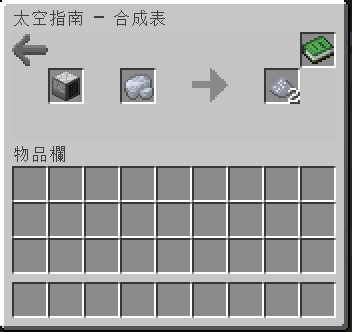
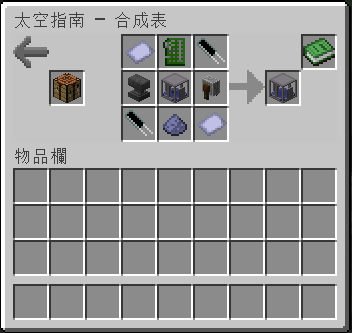
GitBook: [#154] No subject

Changed region(s): [[0.0, 0.0, 1.0, 1.0]]

diff --git a/item/Enchanter.md b/item/Enchanter.md
@@ -1,14 +1,14 @@
-# ⚡ 附魔師
+# ⚡ 附魔機
 
 ![](<../.gitbook/assets/image (226).png>)
 
-附魔師是一種[通電機器](../space/energy-systems.md)，以消耗能量的方式將附魔書強行附加到物品上。
+附魔機是一種[通電機器](../space/energy-systems.md)，以消耗能量的方式將附魔書強行附加到物品上。
 
 ## 獲得
 
 ### 製作
 
-附魔師可以使用以下物品製作：
+附魔機可以使用以下物品製作：
 
 ![](<../.gitbook/assets/image (225).png>)
 
@@ -23,10 +23,10 @@
 
 ### 啟動
 
-附魔師可以通過[導管](Conduit.md)獲得能量。
+附魔機可以通過[導管](Conduit.md)獲得能量。
 
 消耗 500 單位的能量，右邊的附魔書將強行附加到左邊的物品上。
 
 ![](https://camo.githubusercontent.com/a9c0f0b4eefc7a2ab99a8e58c49c18e4ff5f954dc88877efc031265ab38b3569/68747470733a2f2f692e696d6775722e636f6d2f4870423945746d2e706e67)
 
-一個附魔師可以儲存多達 5000 單位的能量。
+一個附魔機可以儲存多達 5000 單位的能量。

diff --git a/item/Disenchanter.md b/item/Disenchanter.md
@@ -1,0 +1,33 @@
+# ⚡ 祛魔機
+
+![](<../.gitbook/assets/image (238).png>)
+
+祛魔機是一種[通電機器](../space/energy-systems.md)，可以用來去除物品上的附魔並將它們放在書上。
+
+## 獲得
+
+### 製作
+
+祛魔機可以使用以下物品製作：
+
+![](<../.gitbook/assets/image (246).png>)
+
+* 1 [電路板](Circuit-Board.md)
+* 1 砂輪
+* 1鐵砧
+* 1[附魔機](Enchanter.md)
+* 1[鉛粉](Lead-Dust.md)
+* 2[電容](Capacitor.md)
+* 2[塑料](Plastic.md)
+
+## 用法
+
+### 啟動
+
+祛魔機可以透過[導管](Conduit.md)獲得能量。
+
+消耗 500 能量，左邊附魔的物品上的附魔將被分解至右邊的書上。
+
+![](https://camo.githubusercontent.com/61da52f889256a7bcab4f2e588abb223828abe266e90bf7766db837b6a46f458/68747470733a2f2f692e696d6775722e636f6d2f436c77474e724d2e706e67)
+
+祛魔機最多可以儲存 5000 單位的能量。

diff --git a/SUMMARY.md b/SUMMARY.md
@@ -36,7 +36,8 @@
   * [⚡ 電弧爐](item/Electric-Arc-Furnace.md)
   * [⚡ 粉碎機](item/Pulverizer.md)
   * [⚡ 防護盾生成器](item/Forcefield-Generator.md)
-  * [⚡ 附魔師](item/Enchanter.md)
+  * [⚡ 附魔機](item/Enchanter.md)
+  * [⚡ 祛魔機](item/Disenchanter.md)
   * [⚙ 模組化工作台](item/Modular-Workbench.md)
   * [⚙ 火箭](item/Rockets.md)
   * [⚙ 太空服裝訂製](item/suit-fabricator.md)

diff --git a/item/Titanium-Dust.md b/item/Titanium-Dust.md
@@ -1,6 +1,6 @@
 # 💎 鈦粉
 
-![](<../.gitbook/assets/image (231).png>)
+![](<../.gitbook/assets/image (231) (1).png>)
 
 鈦粉是一種粉末，可以熔煉成兩個[鈦錠](titanium-ingot.md)。
 
@@ -10,6 +10,6 @@
 
 鈦粉可以使用[粉碎機](Pulverizer.md)製造：
 
-![](<../.gitbook/assets/image (246).png>)
+![](<../.gitbook/assets/image (246) (1).png>)
 
 * 1 鈦原礦

diff --git a/item/Wooly-Armor.md b/item/Wooly-Armor.md
@@ -10,7 +10,7 @@
 
 羊毛套裝可以使用以下物品製作：
 
-![](<../.gitbook/assets/image (231) (1) (1).png>)
+![](<../.gitbook/assets/image (231) (1) (1) (1).png>)
 
 * 4 白色羊毛
 * 1 皮甲（頭盔、胸甲、護腿或靴子）

diff --git a/item/Electric-Furnace.md b/item/Electric-Furnace.md
@@ -1,6 +1,6 @@
 # ⚡ 電爐
 
-![](<../.gitbook/assets/image (231) (1).png>)
+![](<../.gitbook/assets/image (231) (1) (1).png>)
 
 電爐是一種[通電機器](../space/energy-systems.md)，可以消耗能量高速冶煉物品。
 

diff --git a/item/Palladium-Block.md b/item/Palladium-Block.md
@@ -1,6 +1,6 @@
 # 💎 鈀塊
 
-![](<../.gitbook/assets/image (238).png>)
+![](<../.gitbook/assets/image (238) (1).png>)
 
 鈀塊是可放置的礦物。
 
